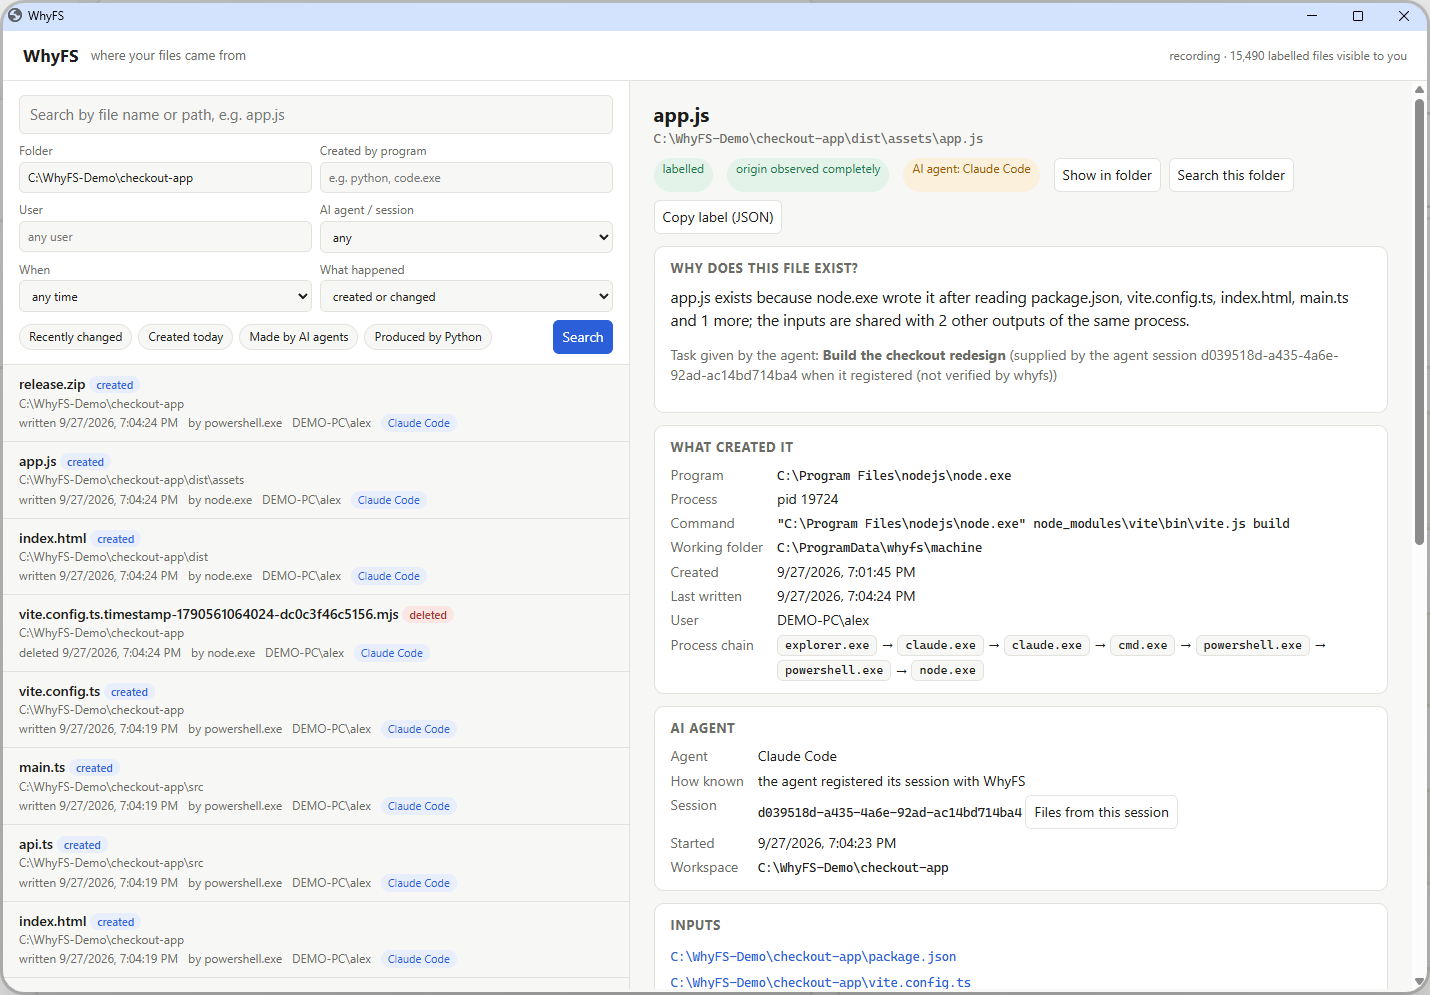
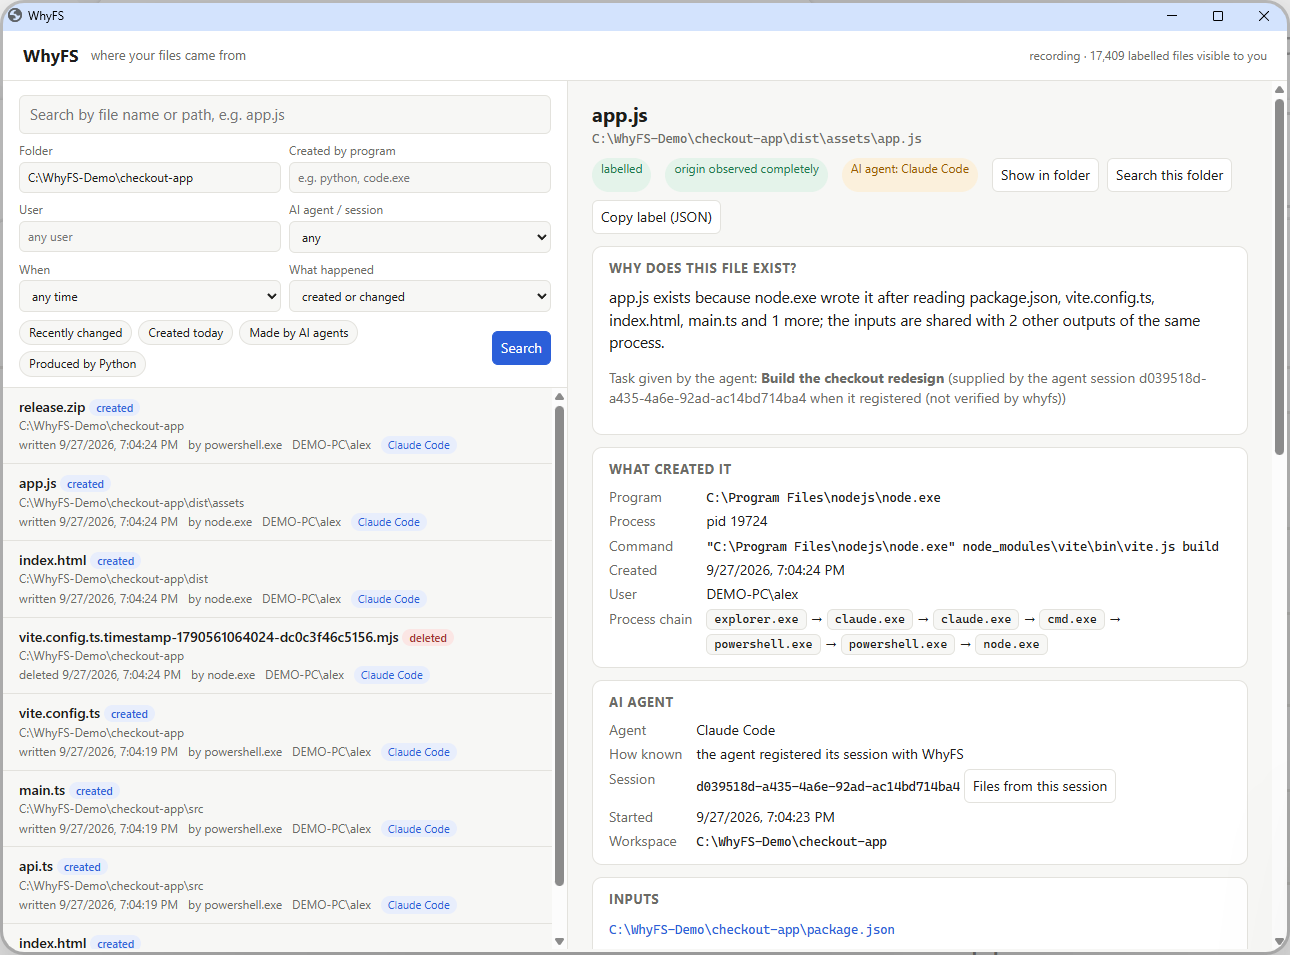
docs/assets: window screenshot re-recorded with the label fixes (created time, no working folder)

diff --git a/docs/assets/make_screenshots.py b/docs/assets/make_screenshots.py
@@ -83,7 +83,7 @@ def shoot(out: Path) -> None:
     url = html.as_uri() + "#" + frag
     # headless browsers are not always available: capture a real app window (capture_window.ps1)
     subprocess.run(["powershell", "-ExecutionPolicy", "Bypass", "-File", str(HERE / "capture_window.ps1"),
-                    "-Url", url, "-Out", str(out)], check=True, timeout=180)
+                    "-Url", url, "-Out", str(out), "-Width", "1300", "-Height", "960"], check=True, timeout=180)
     import shutil
     shutil.rmtree(tmp, ignore_errors=True)
     print(f"wrote {out}")
